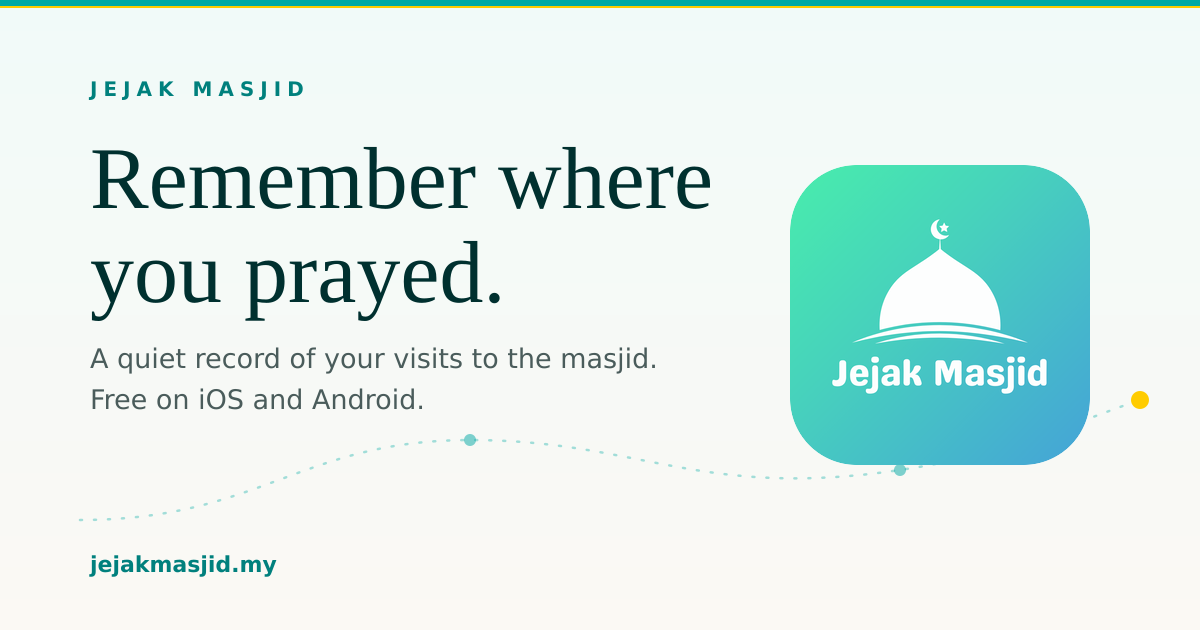
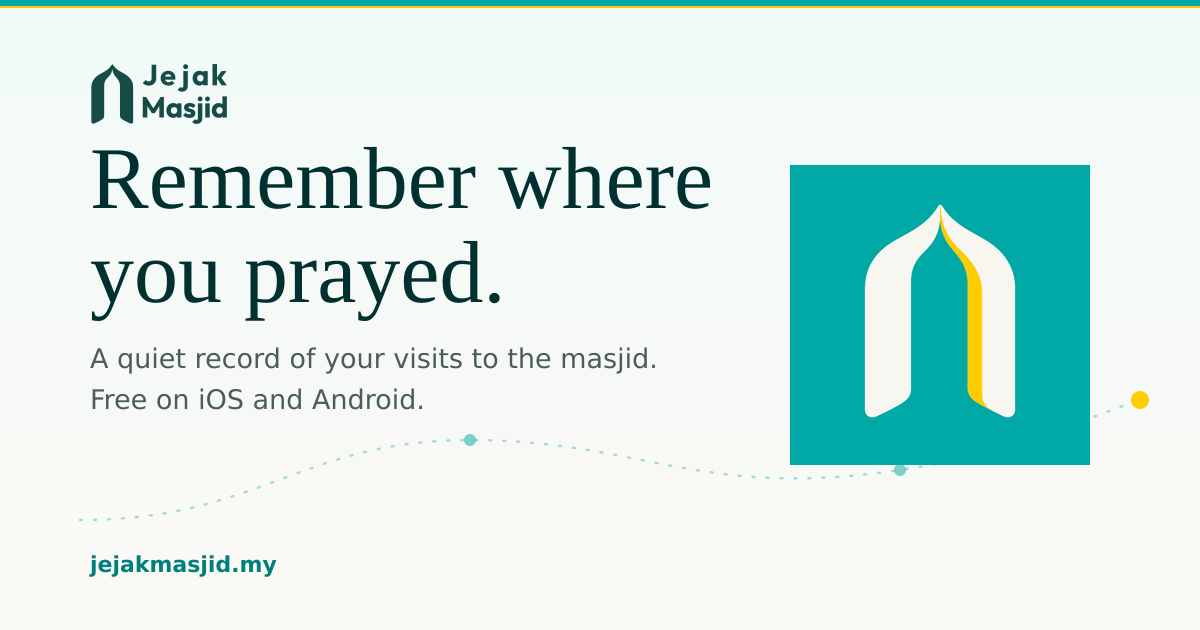
Update approved Jejak Masjid wordmark and brand assets

Changed region(s): [[0.6475, 0.2413, 0.925, 0.754], [0.0617, 0.0905, 0.2467, 0.2111]]

diff --git a/src/components/ui/Logo.tsx b/src/components/ui/Logo.tsx
@@ -1,28 +1,16 @@
-/**
- * The shipped Jejak Masjid app icon (mirrored from
- * project-masjid-mobile/assets/images/icon.png). Use this everywhere the brand
- * mark appears — do not substitute a redrawn mark.
- */
+/** Approved JM artwork. Preserve the original silhouette and lockup spacing. */
 export function LogoMark({ className = 'h-9 w-9' }: { className?: string }) {
-  return (
-    <img
-      src="/logo.png"
-      alt=""
-      aria-hidden="true"
-      width={256}
-      height={256}
-      className={`rounded-[22%] ${className}`}
-    />
-  )
+  return <img src="/logo.png" alt="" aria-hidden="true" width={256} height={256} className={className} />
 }
 
 export function Wordmark({ className = '' }: { className?: string }) {
   return (
-    <span className={`inline-flex items-center gap-2.5 ${className}`}>
-      <LogoMark className="h-9 w-9" />
-      <span className="font-display text-[1.35rem] leading-none text-foreground">
-        Jejak Masjid
-      </span>
-    </span>
+    <img
+      src="/brand/jm-wordmark-ink.svg"
+      alt="Jejak Masjid"
+      width={387}
+      height={174}
+      className={`block h-11 w-auto shrink-0 ${className}`}
+    />
   )
 }
